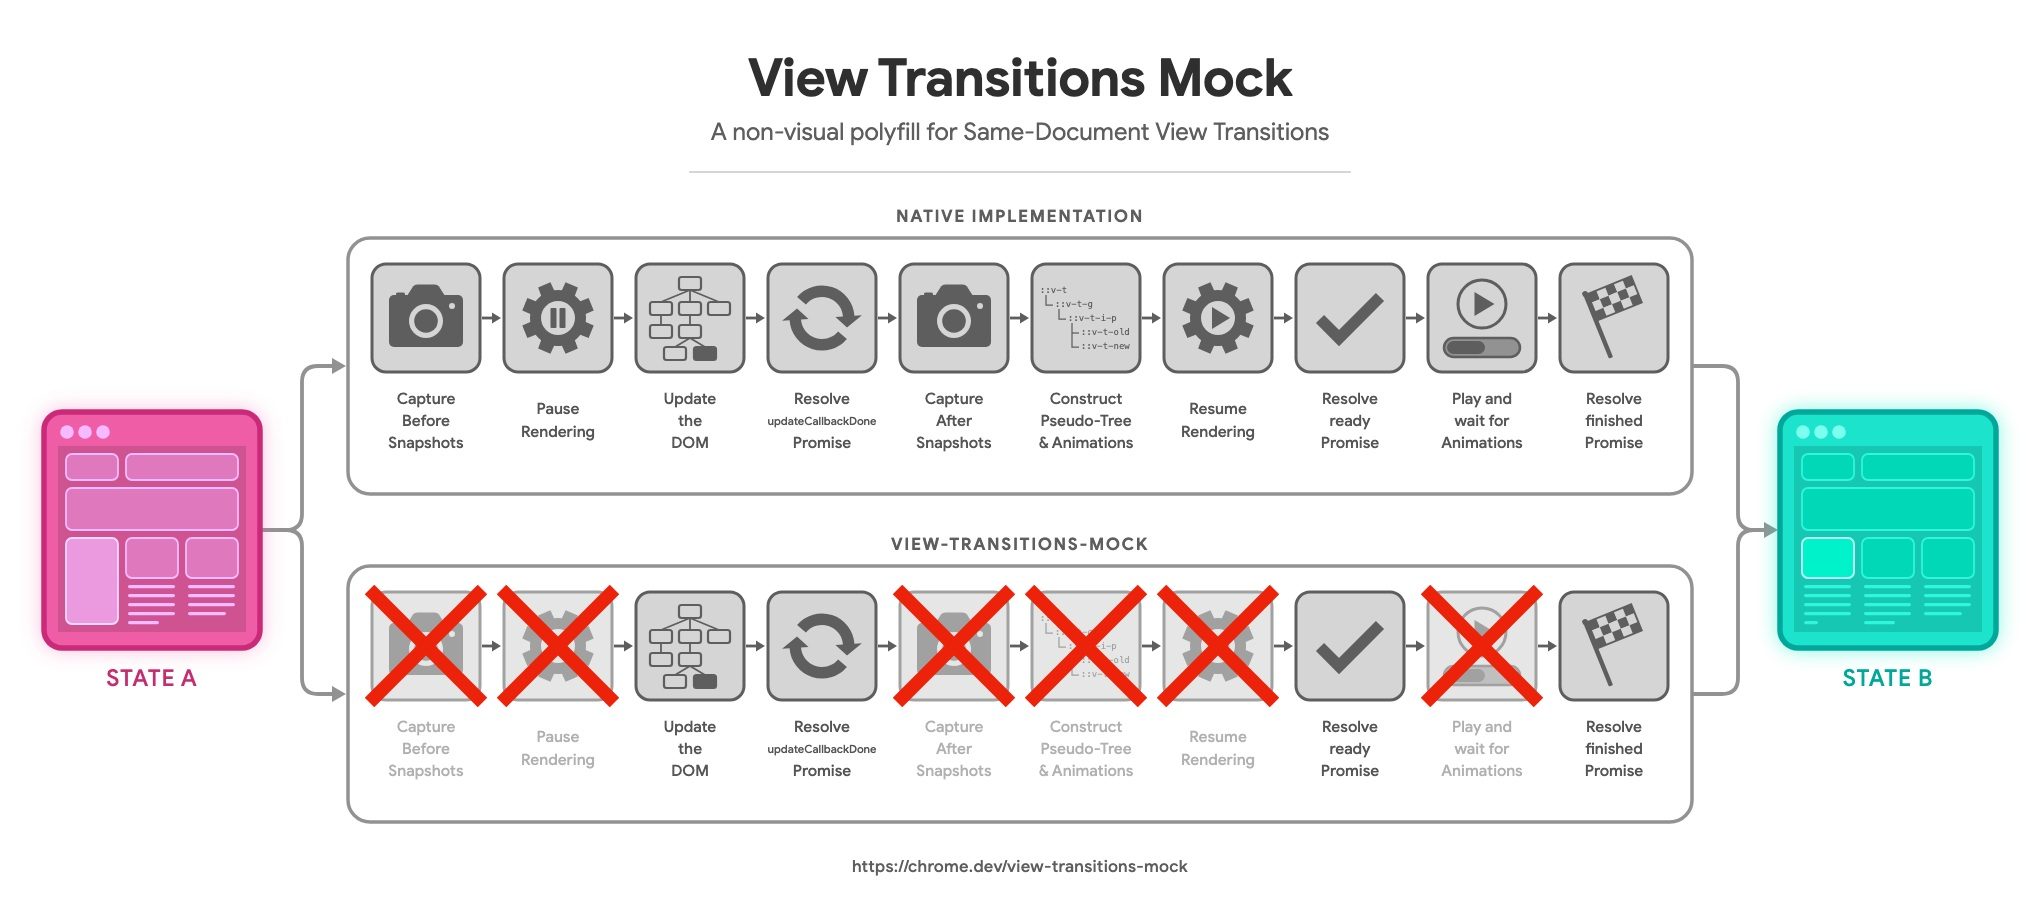
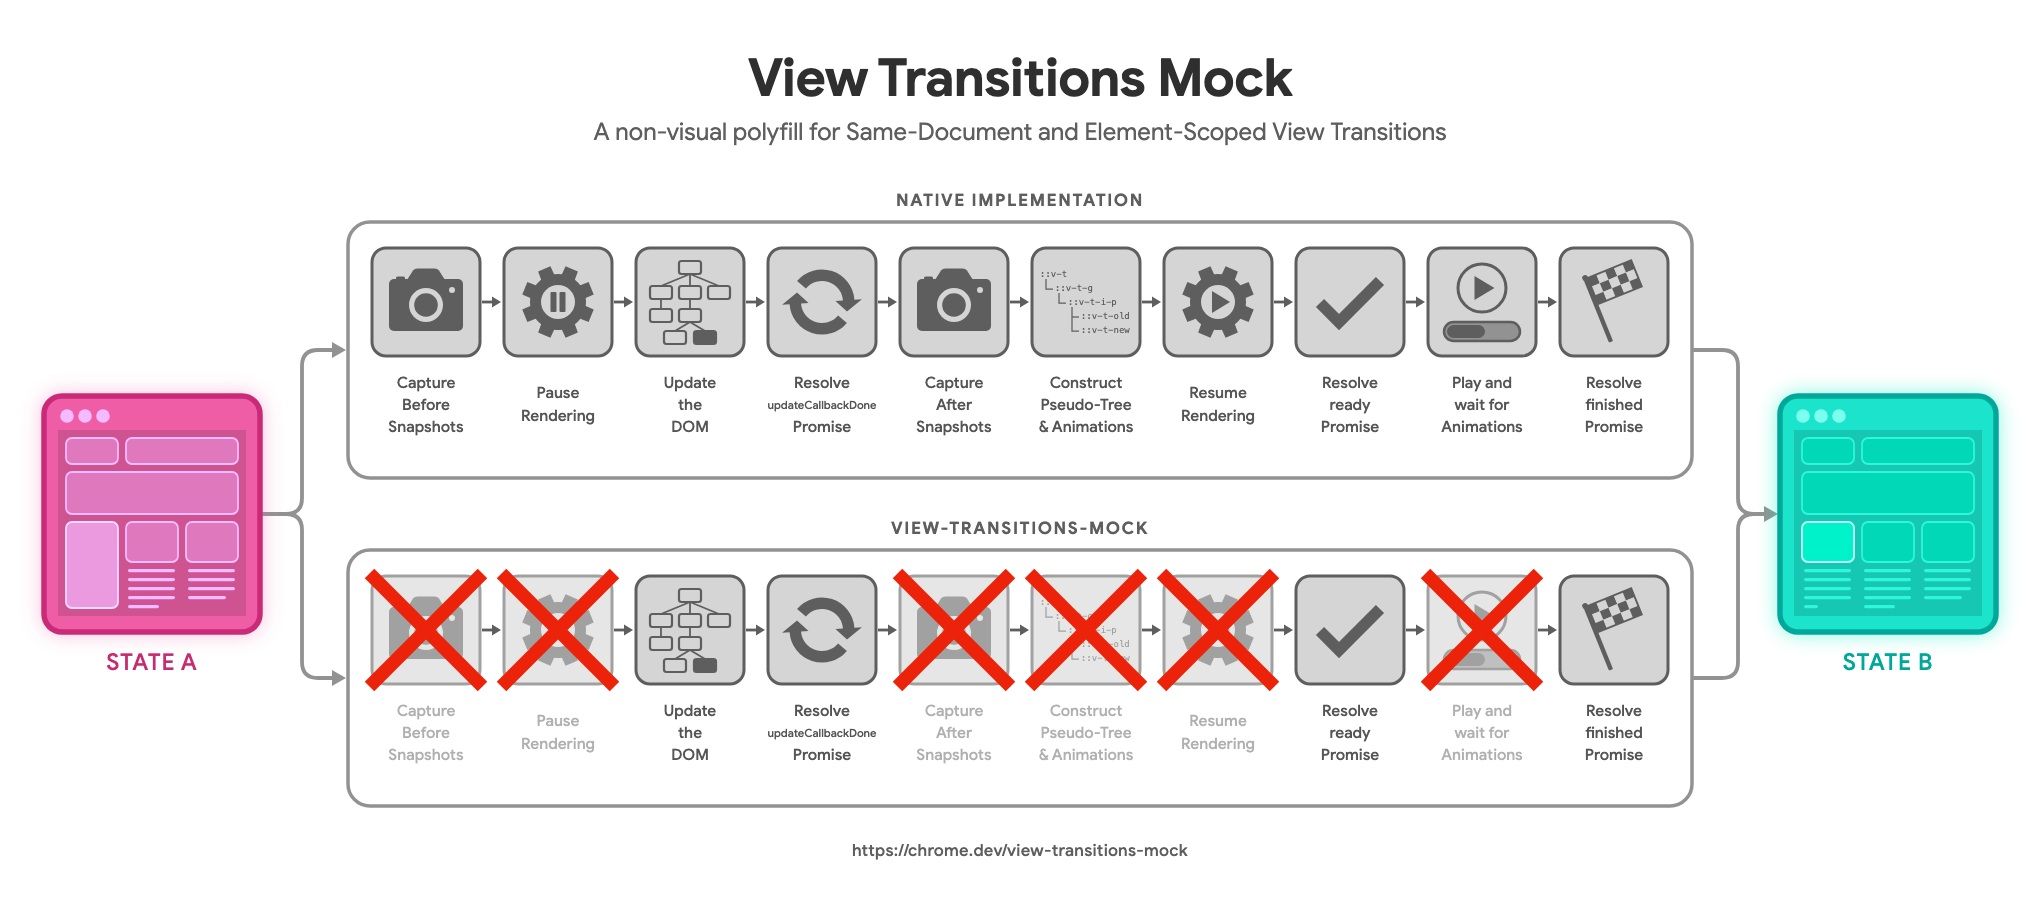
Update tagline

diff --git a/README.md b/README.md
@@ -1,6 +1,6 @@
 # View Transitions Mock
 
-A non-visual polyfill for Same-Document View Transitions.
+A non-visual polyfill for Same-Document and Element-Scoped View Transitions.
 
 ![View Transitions Mock](https://raw.githubusercontent.com/GoogleChromeLabs/view-transitions-mock/refs/heads/main/assets/view-transitions-mock.jpg)
 
